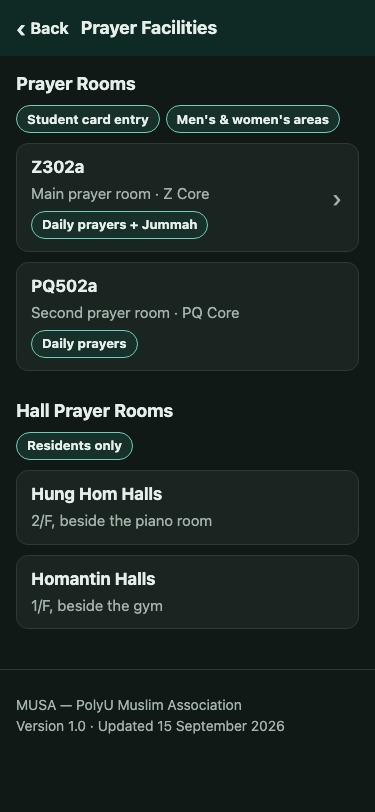
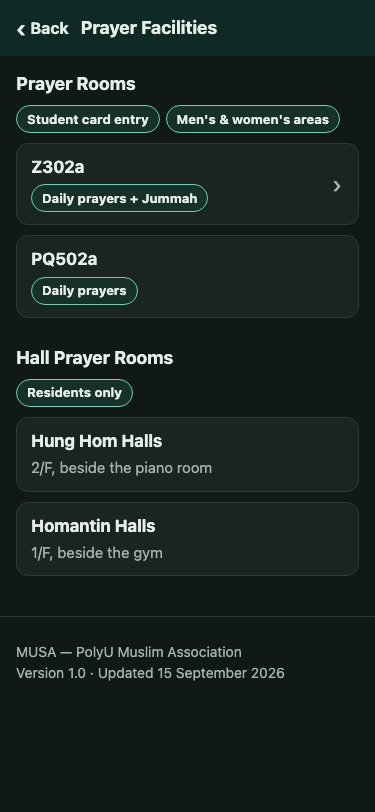
Trim prayer rooms, and swap the hall food listings
Z302a and PQ502a drop the tag and the core name: the room code already says
where they are. The wudu line is gone. The WhatsApp kitchens now say South
Asian meals once above the group, beside the price, and Several options daily
is dropped. The campus note about no other catering outlet is removed.

Halls now lists the Homantin Halls vending machine, moved over from Campus,
and a new Hung Hom Halls canteen entry that carries only its location, so it
shows as Status not recorded until the committee supplies the halal details.
Turnep Roast and Relish and Ebenezers are removed for now.

diff --git a/content.md b/content.md
@@ -56,18 +56,13 @@ It will tell you about unknown keys, bad status values, and dead links.
 ## Prayer Rooms
 
 ### Z302a
-- tag: Main prayer room
-- location: Z Core
 - access: Student card entry
 - arrangement: Men's & women's areas
 - prayers: Daily prayers + Jummah
-- wudu: No wudu area inside
 - link: https://mosque-prayer-display-screen-cyan.vercel.app
 - link-label: Live prayer times
 
 ### PQ502a
-- tag: Second prayer room
-- location: PQ Core
 - access: Student card entry
 - arrangement: Men's & women's areas
 - prayers: Daily prayers
@@ -209,12 +204,6 @@ Hours change often, so they are not listed.
 - status: check-packaging
 - tags: Snacks
 
-### Vending machine
-- where: Homantin Halls, G/F canteen
-- status: check-packaging
-- tags: Frozen meals
-- TODO: confirm the machine's brand name
-
 ### 7-Eleven
 - where: Campus-wide
 - status: check-packaging
@@ -223,20 +212,17 @@ Hours change often, so they are not listed.
 - link: https://www.polyu.edu.hk/fo/visitors/campus-wide-facilities/
 - TODO: list the specific certified instant noodles, juices and snacks if anyone verifies them
 
-> No other PolyU catering outlet serves halal food.
-
 ## Halls
 
-### Turnep Roast & Relish
-- tags: 7 min from Homantin · 5 min from Hung Hom
-- perk: Student discount
-- link: https://maps.app.goo.gl/yXLLkUV1xu2xQqSq9
-- TODO: confirm halal certification status
+### Vending machine
+- where: Homantin Halls, G/F canteen
+- status: check-packaging
+- tags: Frozen meals
+- TODO: confirm the machine's brand name
 
-### Ebenezers
-- status: certified
-- tags: 5 min from Homantin
-- link: https://maps.app.goo.gl/Qa2TDpEVNJesHDoQA
+### Hung Hom Halls canteen
+- where: Hung Hom Halls
+- TODO: what is halal there, which counter, and the certification status
 
 ## Delivery
 
@@ -245,21 +231,21 @@ Hours change often, so they are not listed.
 ### Pakistani Halal Food
 - status: unverified
 - price: ≈HK$40 a meal
-- tags: South Asian meals · Several options daily
+- sells: South Asian meals
 - link: https://chat.whatsapp.com/LWmReNeQYwHFVJJMLz2yZ9
 - TODO: delivery area
 
 ### Bangladeshi Halal Food (Ruby Foods)
 - status: unverified
 - price: ≈HK$40 a meal
-- tags: South Asian meals · Several options daily
+- sells: South Asian meals
 - link: https://chat.whatsapp.com/LcFJXcxJQ3jE4zf7vVgqMd
 - TODO: delivery area
 
 ### Halal Food Delivery HK (Maryam Aunty)
 - status: unverified
 - price: ≈HK$40 a meal
-- tags: South Asian meals · Several options daily
+- sells: South Asian meals
 - link: https://chat.whatsapp.com/FbKoipG7m17GC9HOghzt2C
 - TODO: delivery area
 
